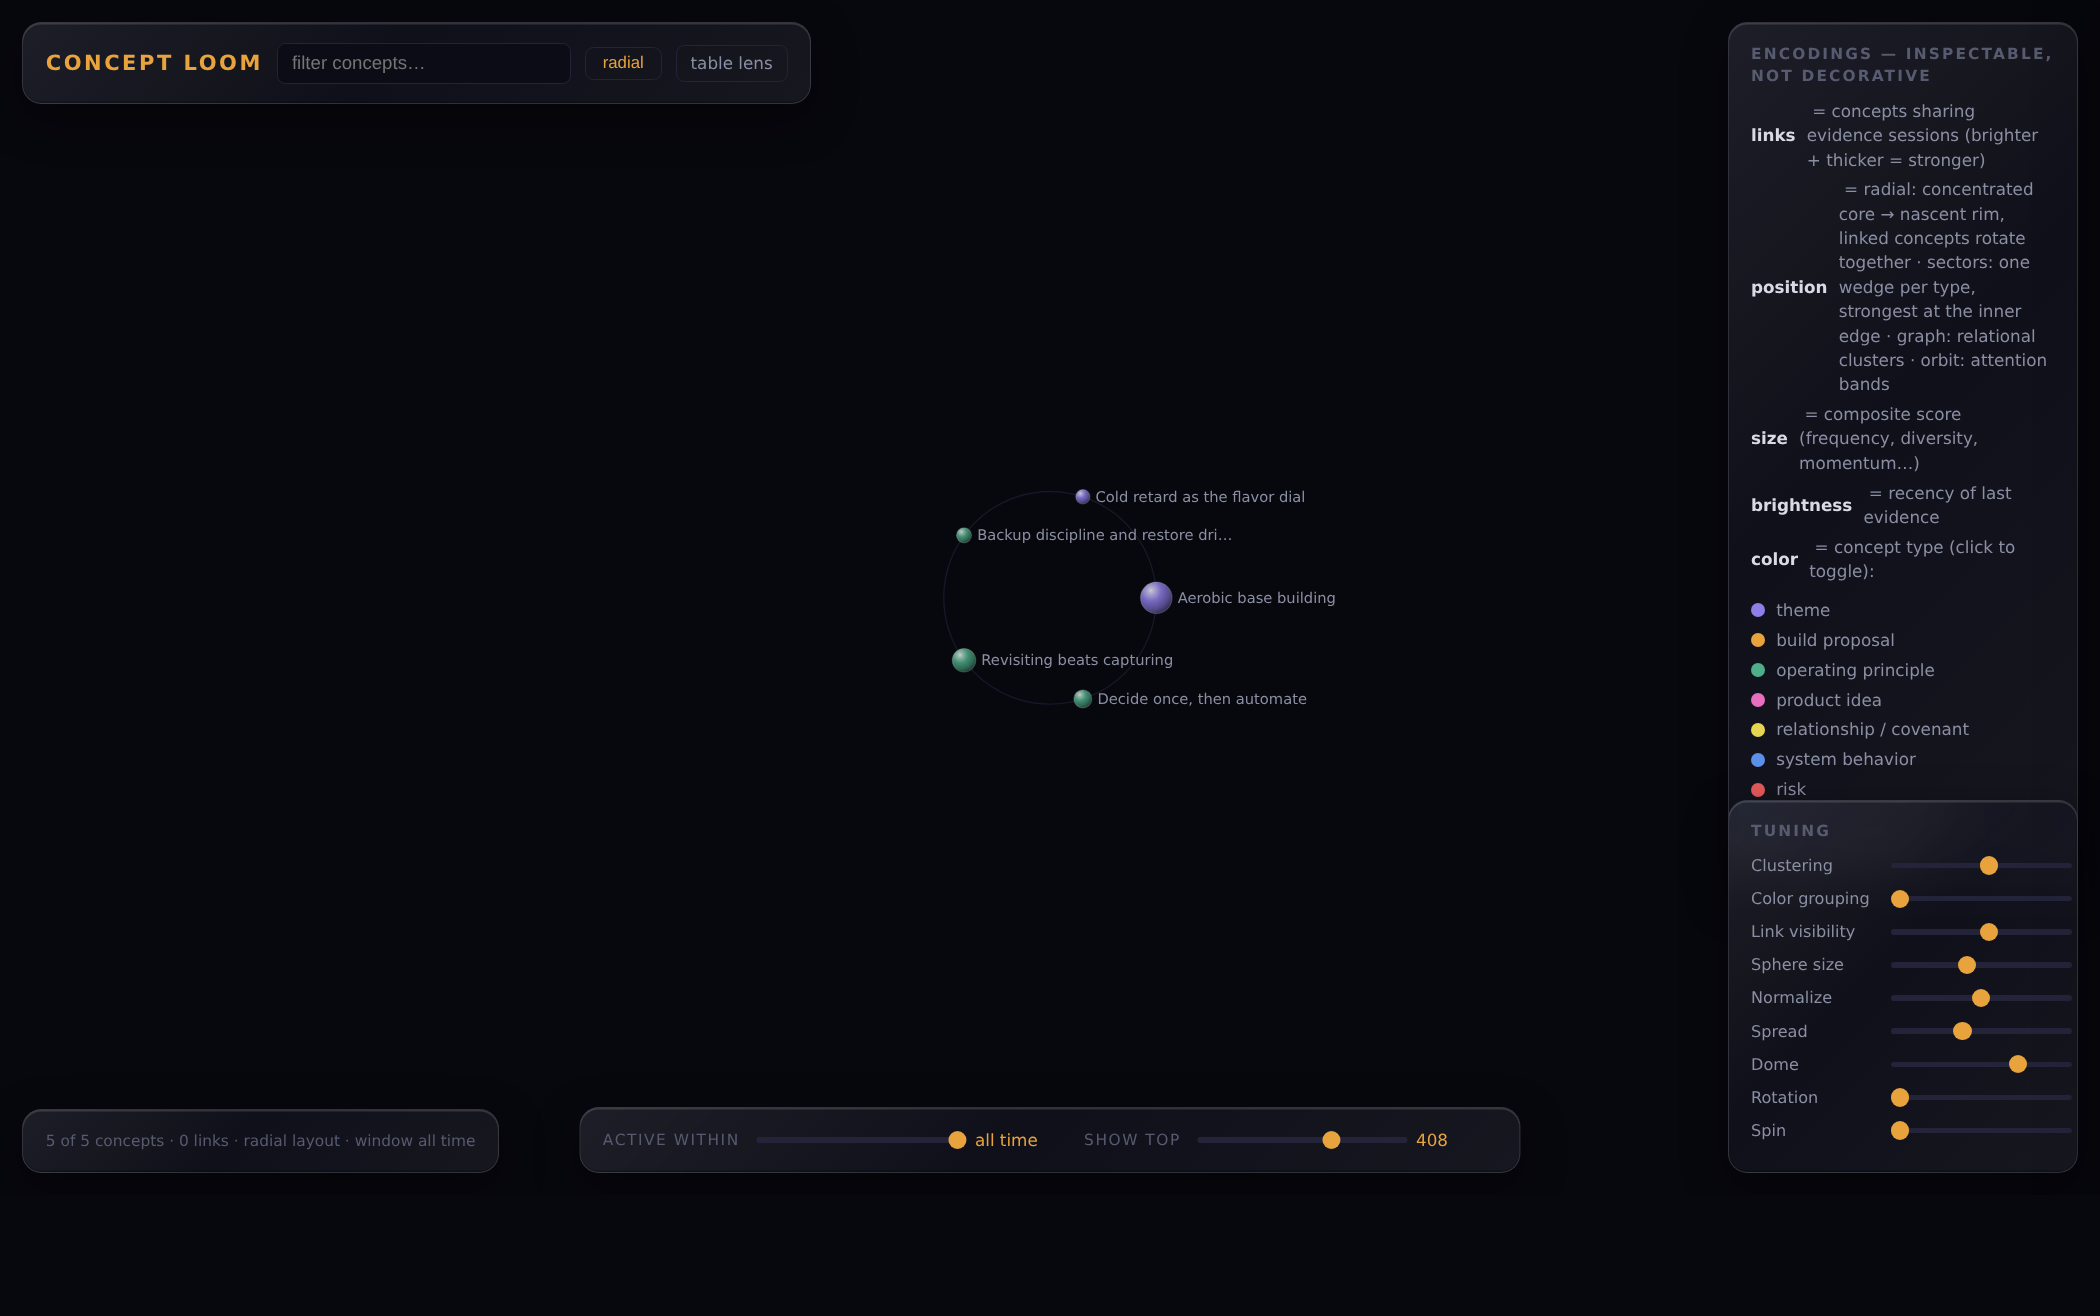
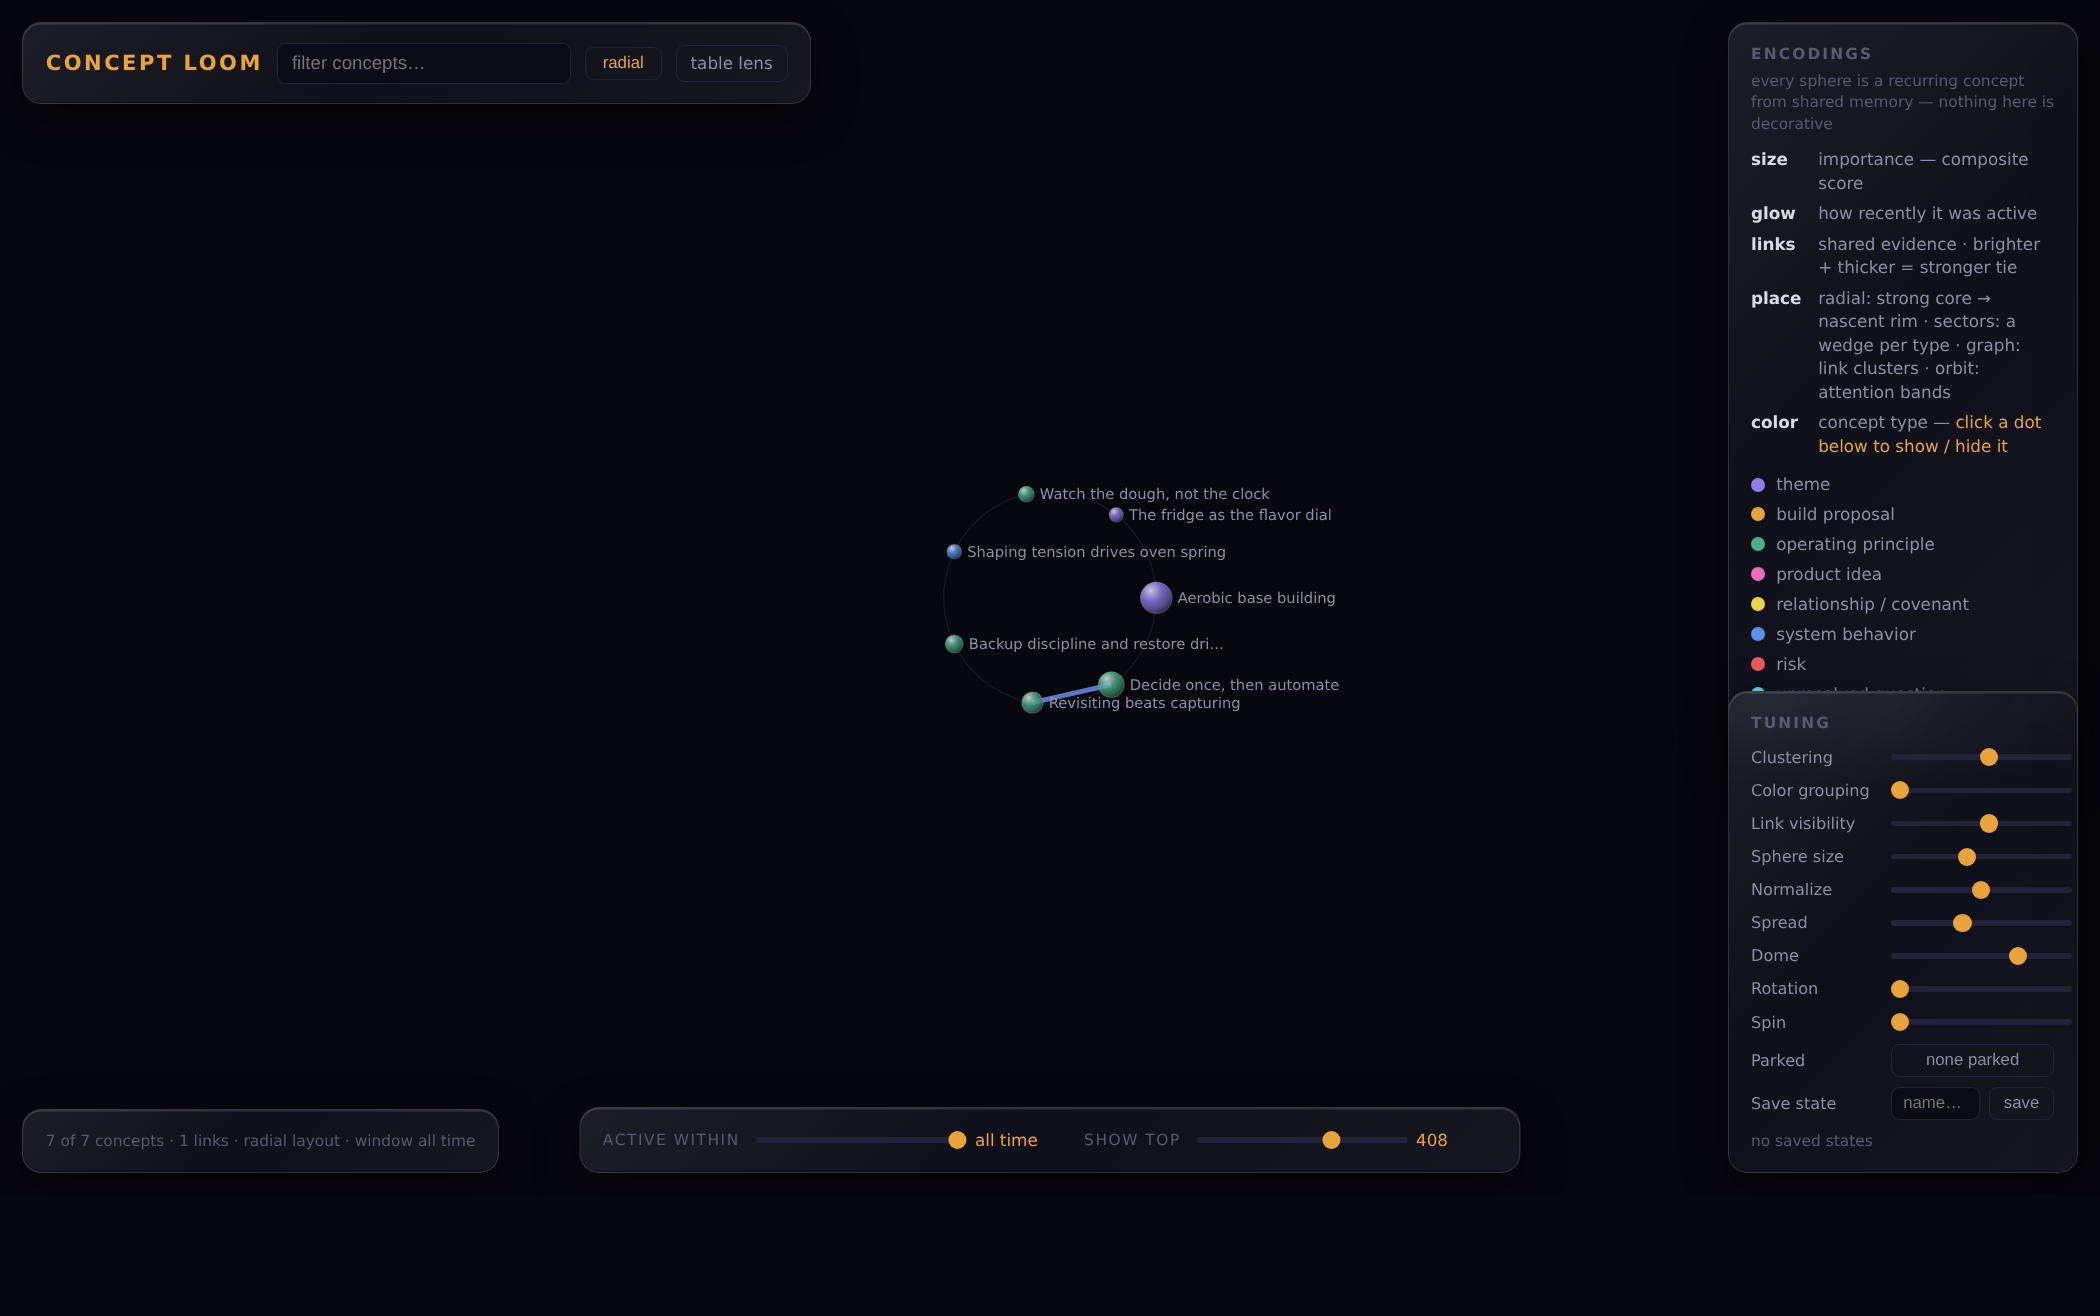
docs: refresh orbit screenshot, reword sample-corpus proofing note

Changed region(s): [[0.8357, 0.0312, 0.9905, 0.8723], [0.4333, 0.4673, 0.619, 0.5608], [0.4333, 0.3739, 0.619, 0.4362]]

diff --git a/examples/sample-notes/sourdough.md b/examples/sample-notes/sourdough.md
@@ -8,7 +8,7 @@ Hydration experiments: 75% is my ceiling with this flour. The 80% batches
 taste the same and handle like glue. Chasing high hydration for its own sake
 was an internet-induced detour.
 
-Cold retard timing matters more than I thought. Twelve hours in the fridge
+Cold-proof timing matters more than I thought. Twelve hours in the fridge
 gives mild loaves; twenty-four gives the tang people actually comment on.
 Thirty-six starts to break down the crumb. The fridge is the flavor dial.
 